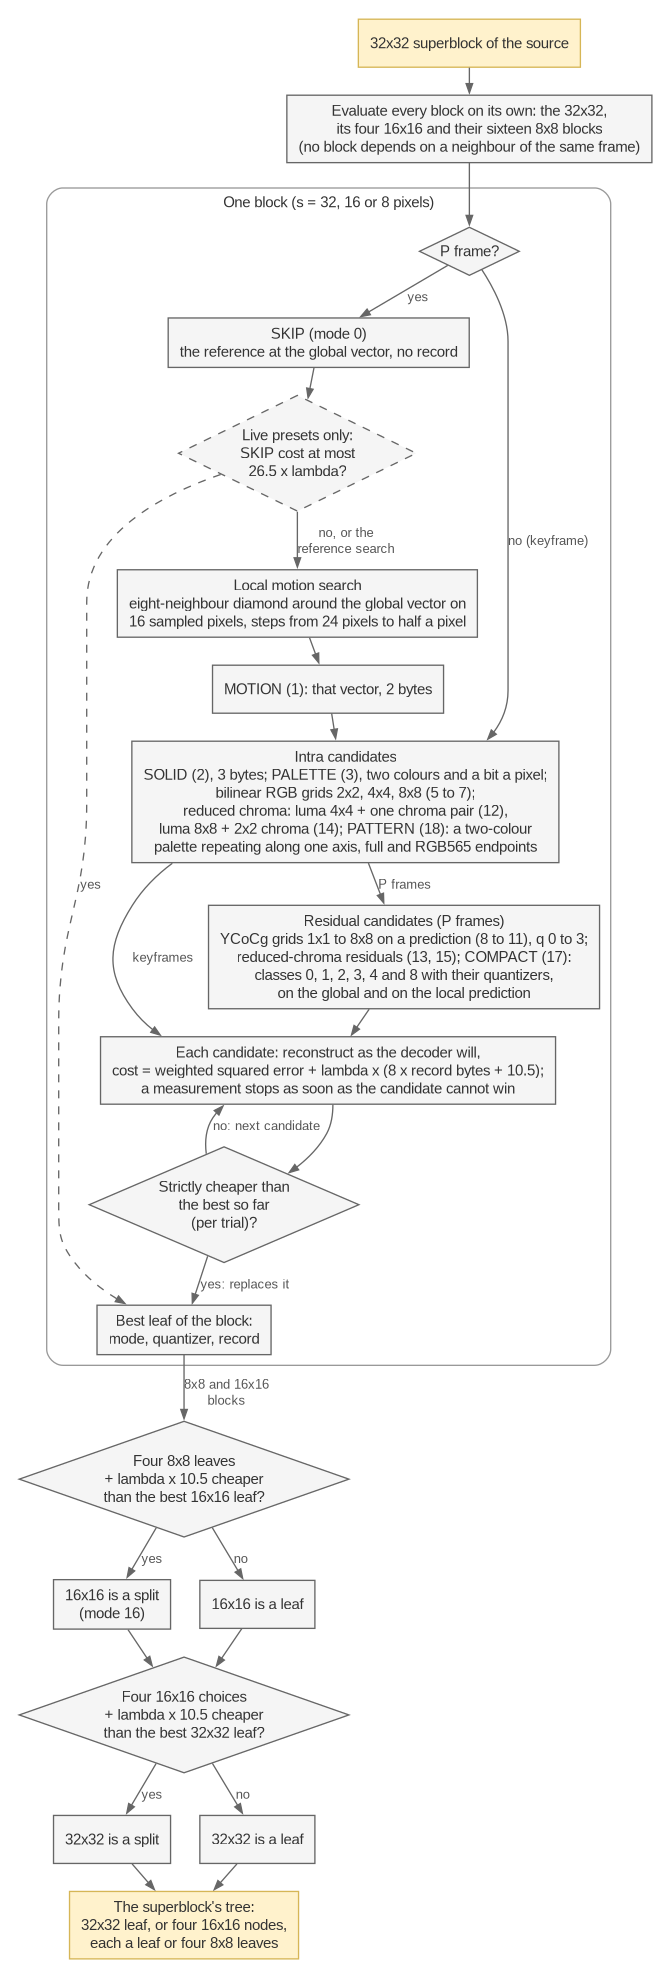
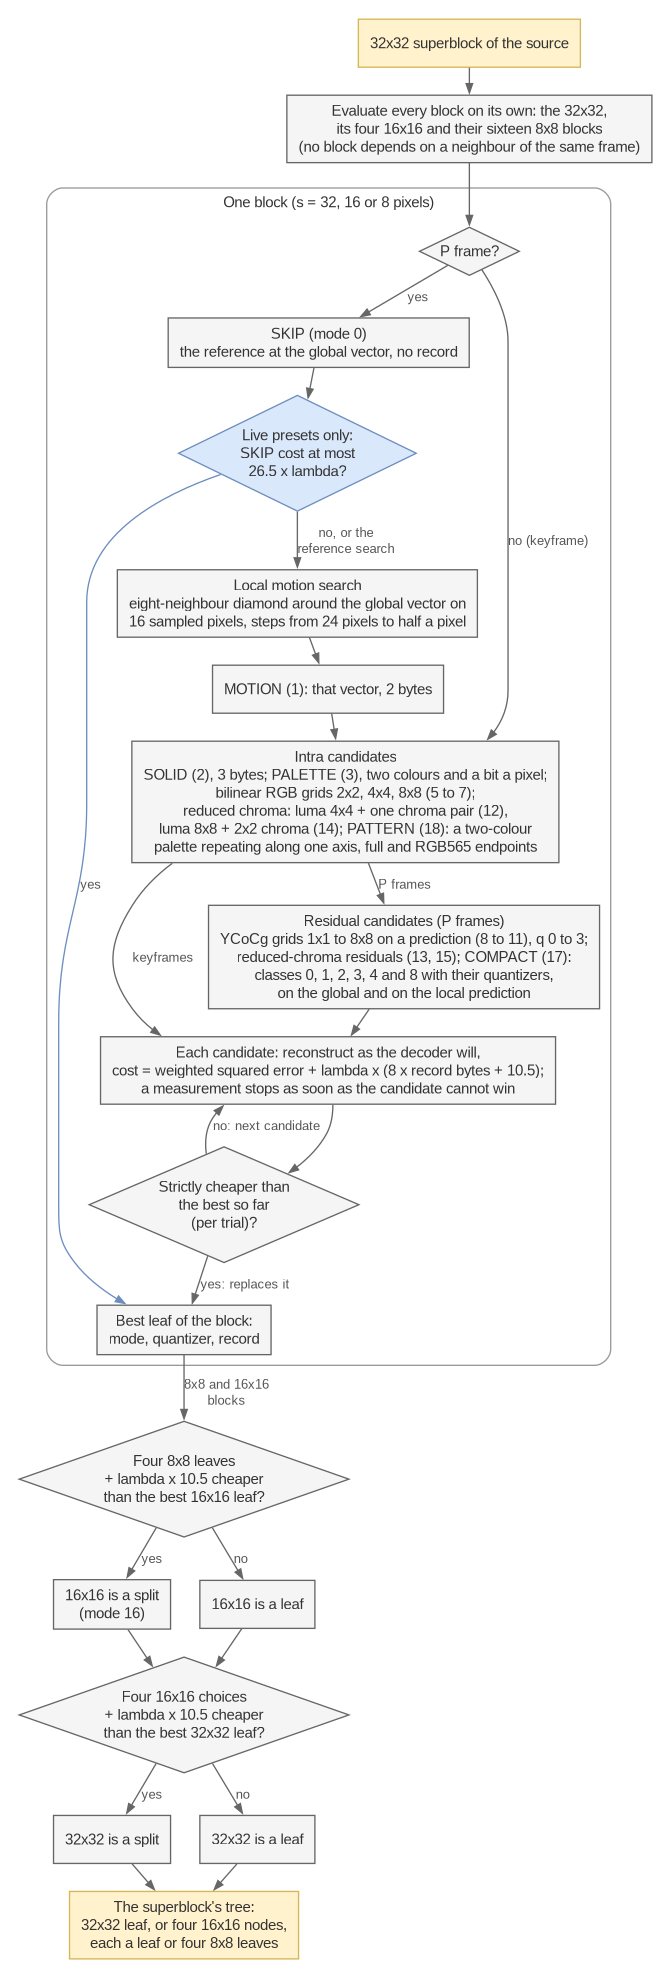
MCV2 charts: dashes mean only "not verified on a vanilla client"
The block-tree chart drew the live presets' early SKIP dashed, the style the
decode chart keeps for what is unproven on a vanilla client. It is now a blue
decision, labelled and captioned as the live presets' own.

Changed region(s): [[0.2683, 0.185, 0.6259, 0.2776]]

diff --git a/docs/mcv2/encoding.md b/docs/mcv2/encoding.md
@@ -67,7 +67,7 @@ number of threads.
 :name: mcv2-block-flow
 :alt: Flow chart of one block's candidates and of the bottom-up split decision of a superblock.
 
-How one block arrives at one leaf mode, and how a superblock arrives at its tree. The dashed decision is taken by the
+How one block arrives at one leaf mode, and how a superblock arrives at its tree. The blue decision is taken by the
 live presets only; the reference search measures every candidate.
 ```
 
